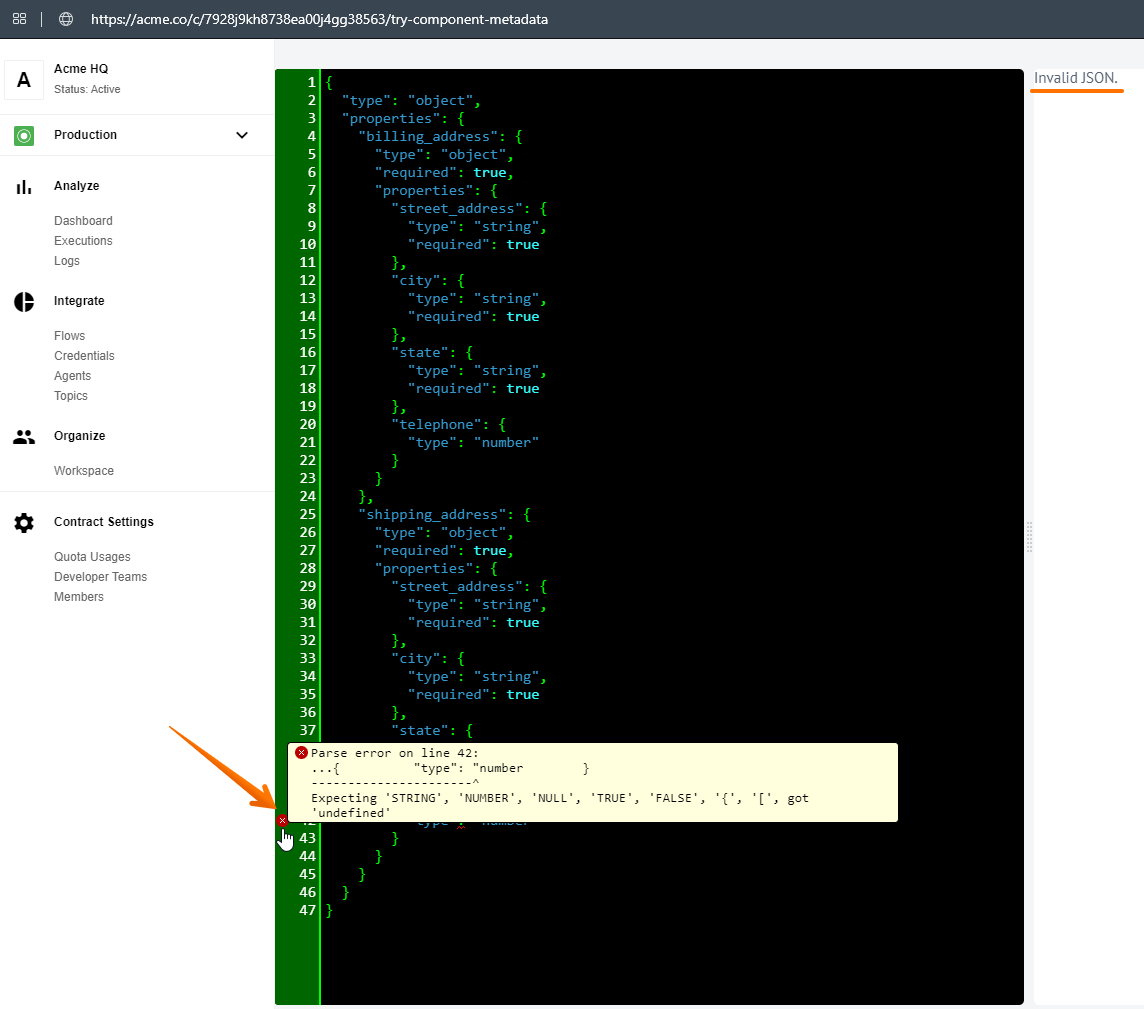
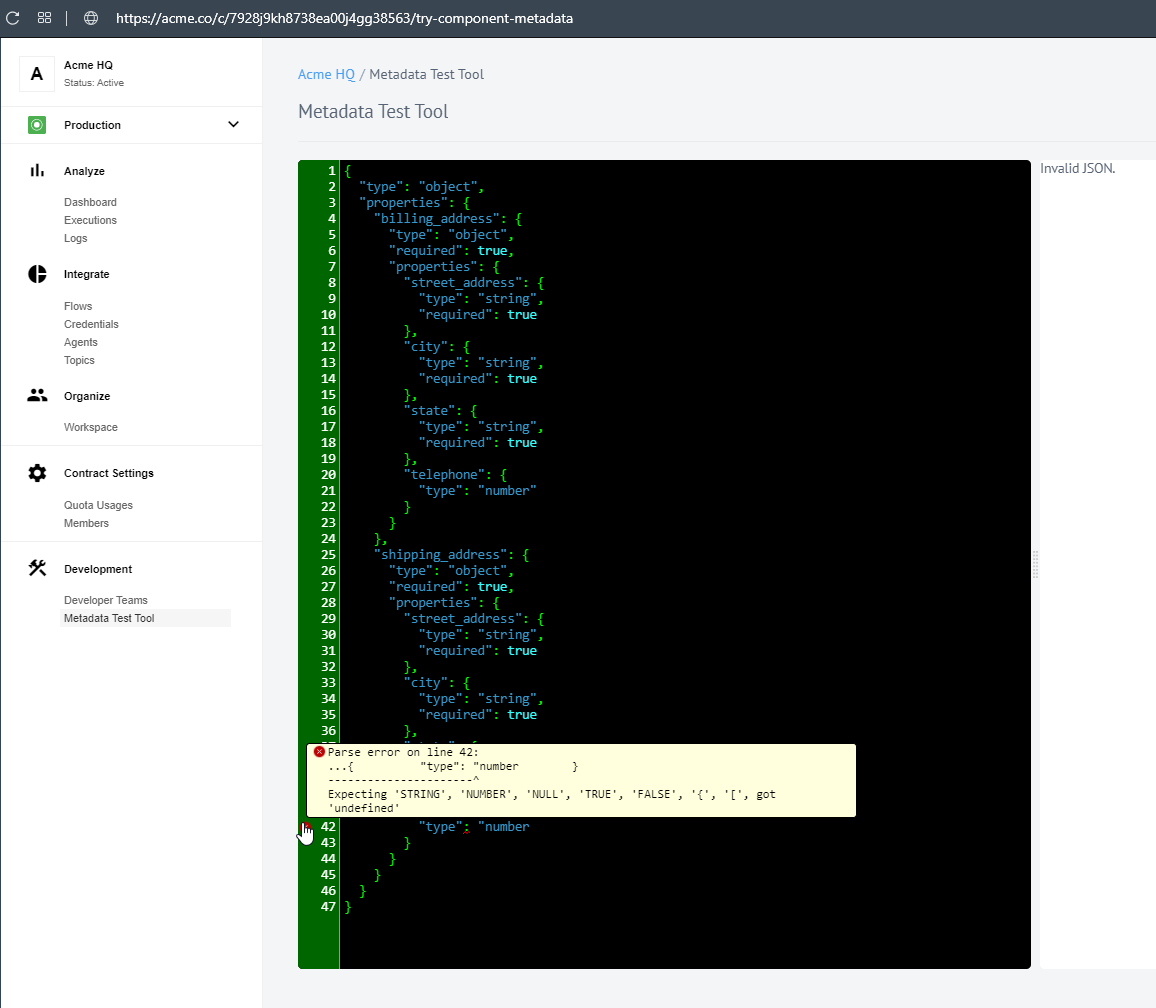
Working on RN

diff --git a/content/_developers/try-metadata.md b/content/_developers/try-metadata.md
@@ -9,7 +9,7 @@ category: component-descriptor
 
 We want to introduce you a Try Metadata Tool for the [{{site.data.tenant.name}} platform](http://www.{{site.data.tenant.name}}). You can use this tool to render the component metadata structures to see how they would
 look on the platform UI. You can experiment and refine the metadata structure before
-committing it to your custom component code. We hope this tool will be useful for you.
+committing it to your custom component code. We hope this tool will be useful for you. To access this tool you can just click on the button on left-hand-side menu.
 
 {% include img.html max-width="80%" url="/assets/img/developer-guide/try-metadata/try-metadata.png" title="Try metadata tool" %}
 
@@ -74,7 +74,7 @@ Of course, if a mistake is made, you will be notified on the right by **"Invalid
 
 {% include img.html max-width="80%" url="/assets/img/developer-guide/try-metadata/try-metadata-error.png" title="Try metadata error" %}
 
-To access this tool navigate to the URL `APP_ADDRESS/c/CONTRACT_ID/try-component-metadata`
+You can also access this tool using URL `APP_ADDRESS/c/CONTRACT_ID/try-component-metadata`
 where the `APP_ADDRESS` is the address of the platform app {{site.data.tenant.appURL}}
 and the `CONTRACT_ID` is your contract ID shown in your browser address bar between
 `/c/` and `/w/` while visiting the platform UI:
@@ -84,5 +84,3 @@ and the `CONTRACT_ID` is your contract ID shown in your browser address bar betw
 Here is an example of URL:
 
 `https://acme.co/c/7928j9kh8738ea00j4gg38563/try-component-metadata`
-
- As of this moment there is no direct navigation link from the left-hand-side menu.
